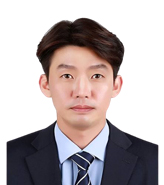
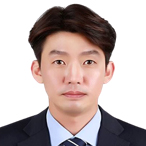
모바일 버전 디자인 수정

diff --git a/css/research-arum.css b/css/research-arum.css
@@ -125,8 +125,8 @@ section>h2 {text-transform: uppercase;}
     #service-area .arum-sns-area ul li:nth-child(even) {padding-left: 2rem; box-sizing: border-box;}
     #service-area .arum-join-area br {display: none;}
 
-    #organization-area {margin-top: 0; padding: 1rem;}
-    #organization-area .organization-chart {margin-top: 2rem;}
+    #organization-area {margin-top: 0; padding: 0 1rem;}
+    #organization-area .organization-chart {margin-top: 0;}
     #organization-area .organization-chart>ul {display: flex; margin-top: 2rem; flex-wrap: wrap;}
     #organization-area .organization-chart .ceo::after {bottom: -2rem; height: 2rem;}
     #organization-area .organization-chart>ul>li::after, #organization-area .organization-chart>ul>li::before {display: none;}
@@ -173,7 +173,6 @@ section>h2 {text-transform: uppercase;}
     #service-area .arum-sns-area ul li:nth-child(even) {padding-left: 0; margin-top: 1rem;}
     #service-area .arum-join-area .tit {font-size: 1.5rem; line-height: 2rem; box-sizing: border-box;}
 
-    #organization-area .organization-chart {margin-top: 1rem;}
     #organization-area .organization-chart>ul>li {flex: 100%;}
     #organization-area .organization-chart>ul>li+li {border-left: 1px solid #d6d6d6;}
     #organization-area .organization-chart>ul>li:first-child {border-bottom-left-radius: 0; border-top-right-radius: 1rem;}
@@ -182,6 +181,8 @@ section>h2 {text-transform: uppercase;}
     #organization-area .organization-chart>ul>li:nth-child(2) h4 {border-top-right-radius: 0;}
     #organization-area .organization-chart>ul>li:nth-child(3) {border-bottom-left-radius: 0;}
     #organization-area .organization-chart>ul>li:last-child {border-bottom-right-radius: 1rem; border-bottom-left-radius: 1rem;}
+    #organization-area .organization-chart .txt-wrap {text-align: center;}
+    #organization-area .organization-chart .txt-wrap li {margin-top: .15rem;}
     #organization-area .ci-area .signature-system-area .box .language-type>li {flex-direction: column;}
     #organization-area .ci-area .signature-system-area .box h5 {margin-bottom: 1.25rem;}
     #organization-area .ci-area .color-palette-area .box {padding: 1.5rem 1.25rem;}

diff --git a/css/join.css b/css/join.css
@@ -65,8 +65,8 @@ input[type=text], input[type=password], input[type=email], select {border: 1px s
 
 .pay-report-area .report-info-area {background-color: #eaf2f6; padding: 1.75rem 1.5rem; border-radius: .5rem; margin-top: 2.5rem;}
 .pay-report-area .report-info-area .tit {color: #333333; font-weight: 500; font-size: 1.5rem;}
-.pay-report-area .report-info-area .sub {color: #666666; font-weight: 300; font-size: 1rem; line-height: 2rem;}
-.pay-report-area .guide {color: #666666; font-weight: 400; font-size: .938rem; line-height: 1.5rem; margin-top: 1.5rem;}
+.pay-report-area .report-info-area .sub {color: #666666; font-weight: 300; font-size: 1rem; line-height: 1.25rem; margin-top: 1rem;}
+.pay-report-area .guide {color: #666666; font-weight: 400; font-size: .938rem; line-height: 1.25rem; margin-top: 1.5rem;}
 .guide-join-membership {margin-top: 6.25rem;}
 
 @media screen and (max-width: 1024px) {
@@ -92,6 +92,7 @@ input[type=text], input[type=password], input[type=email], select {border: 1px s
     .step-complete-area {padding: 0 1.5rem;}
     .step-complete-area .btn-primary {margin-top: 4.375rem;}
 
+    .pay-report-area h2 {display: none;}
     .payment-info-area th, .payment-info-area td {height: 4.5rem;}
     .payment-info-area th {padding-left: 0; font-size: 1rem;}
     .payment-info-area td {padding-right: 0; font-size: .938rem;}
@@ -104,4 +105,5 @@ input[type=text], input[type=password], input[type=email], select {border: 1px s
     .membership-check-list .price {margin-top: .75rem;}
 
     #join-area {max-width: 100%; margin: 0 auto; padding: 0; padding-bottom: 5rem;}
+    .pay-report-area {padding: 0 1rem;}
 }

diff --git a/html/research-arum-organiz.html b/html/research-arum-organiz.html
@@ -58,7 +58,7 @@
                 </li>
                 <li>
                     <h4>사외이사</h4>
-                    <div class="img-wrap"><img src="../img/profile-img-sj-yun-01.jpg" alt="프로필 사진"></div>
+                    <div class="img-wrap"><img src="../img/profile-img-sg-lee-01.jpg" alt="프로필 사진"></div>
                     <div class="txt-wrap">
                         <div class="tit"><span class="name">이상규</span></div>
                         <ul>

diff --git a/css/common.css b/css/common.css
@@ -532,6 +532,8 @@ footer .family-link-wrap button + button {margin-left: 1rem;}
     .like-sponsor-area .sponsor-wrap dl {order: 2;}
     .like-sponsor-area .btn-sponsor {order: 1;}
 
+    .join-membership-area {padding: 0 1rem;}
+
     #popup-report-list.popup-box {max-width: 100vw;}
     #popup-report-list .popup-top-area {height: 6.125rem;}
     #popup-report-list.popup-box .cont-area {padding: 0 1.125rem; max-height: calc(100vh - 6.125rem);}
